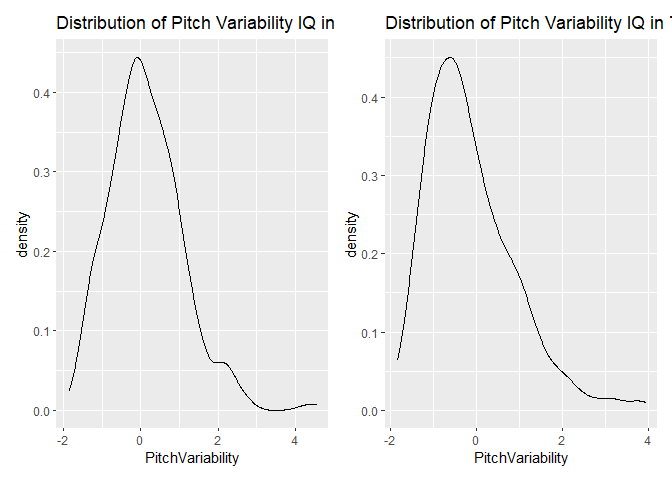
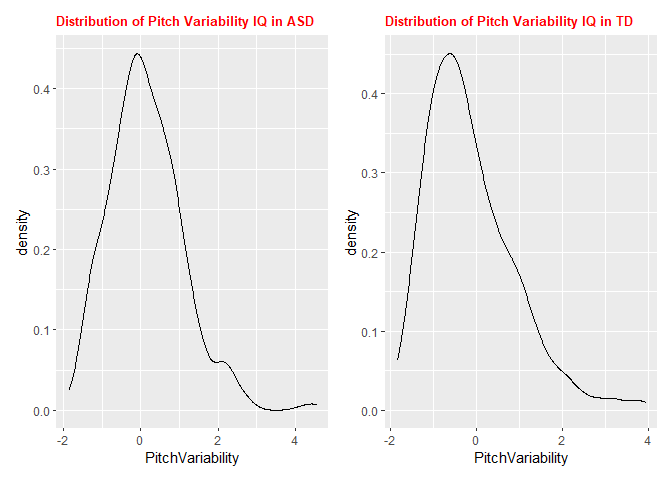
found another error...

diff --git a/Assignment4.md b/Assignment4.md
@@ -252,10 +252,10 @@ hist(newData$PitchVariability)
 
 ``` r
 ASD_DensityPitch <-
-  ggplot(data = filter(newData, Diagnosis == "ASD"), aes(PitchVariability, )) + geom_density() + ggtitle("Distribution of Pitch Variability IQ in ASD") + theme(legend.position = "none")
+  ggplot(data = filter(newData, Diagnosis == "ASD"), aes(PitchVariability,)) + geom_density() + ggtitle("Distribution of Pitch Variability IQ in ASD") + theme(legend.position = "none") + theme(plot.title = element_text(color = "red", size = 10, face = "bold"))
 
 TD_DensityPitch <-
-  ggplot(data = filter(newData, Diagnosis == "TD"), aes(PitchVariability, )) + geom_density() + ggtitle("Distribution of Pitch Variability IQ in TD") + theme(legend.position = "none")
+  ggplot(data = filter(newData, Diagnosis == "TD"), aes(PitchVariability,)) + geom_density() + ggtitle("Distribution of Pitch Variability IQ in TD") + theme(legend.position = "none") + theme(plot.title = element_text(color = "red", size = 10, face = "bold"))
 
 ASD_DensityPitch + TD_DensityPitch 
 ```
